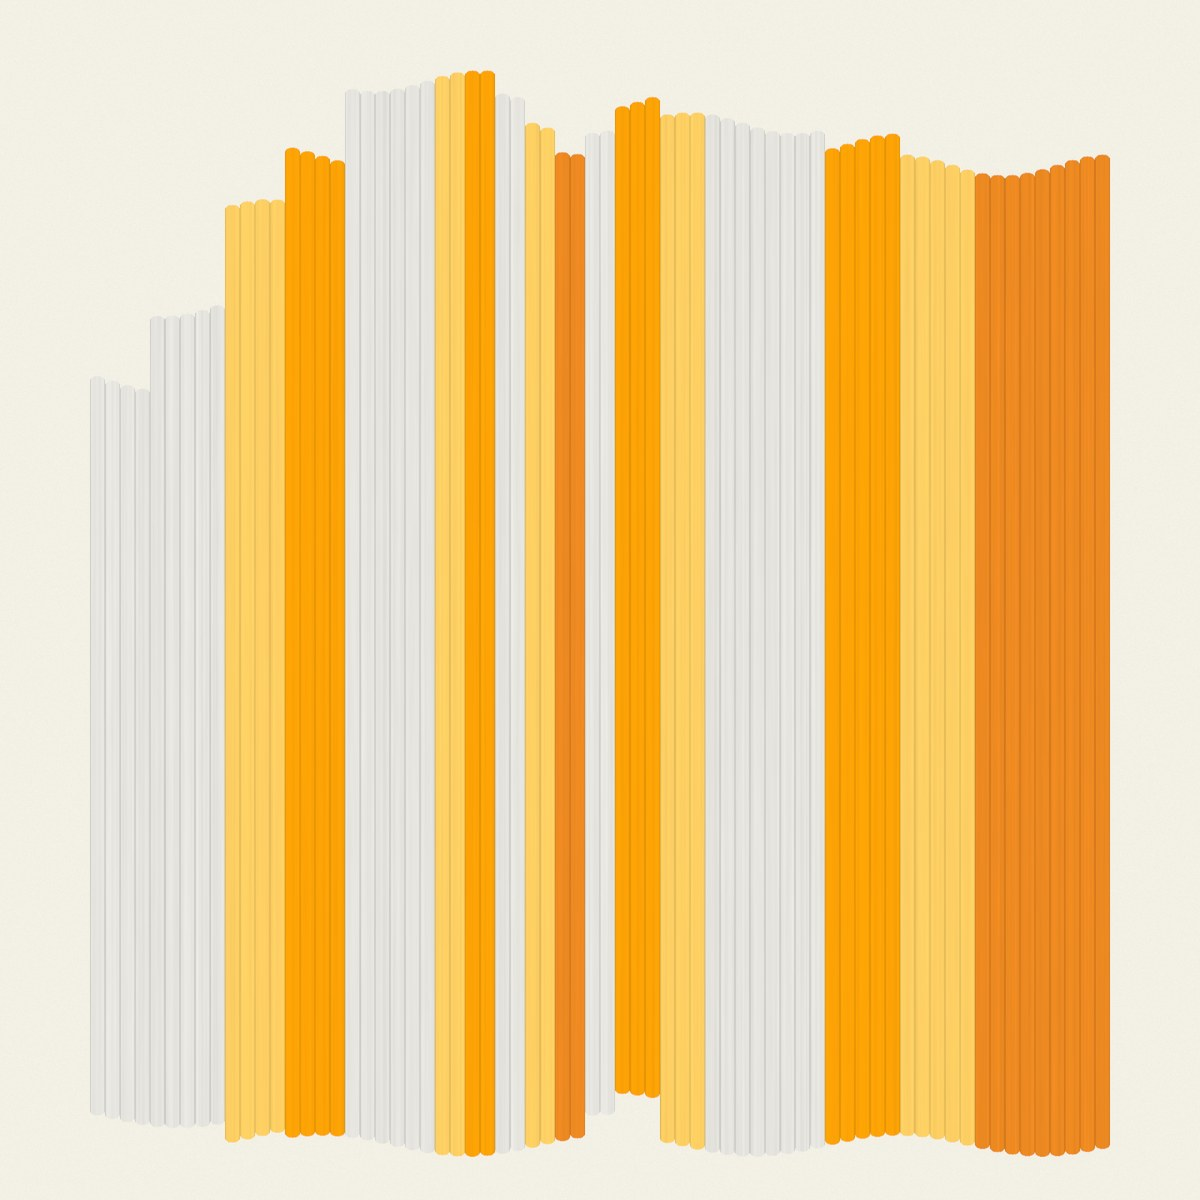
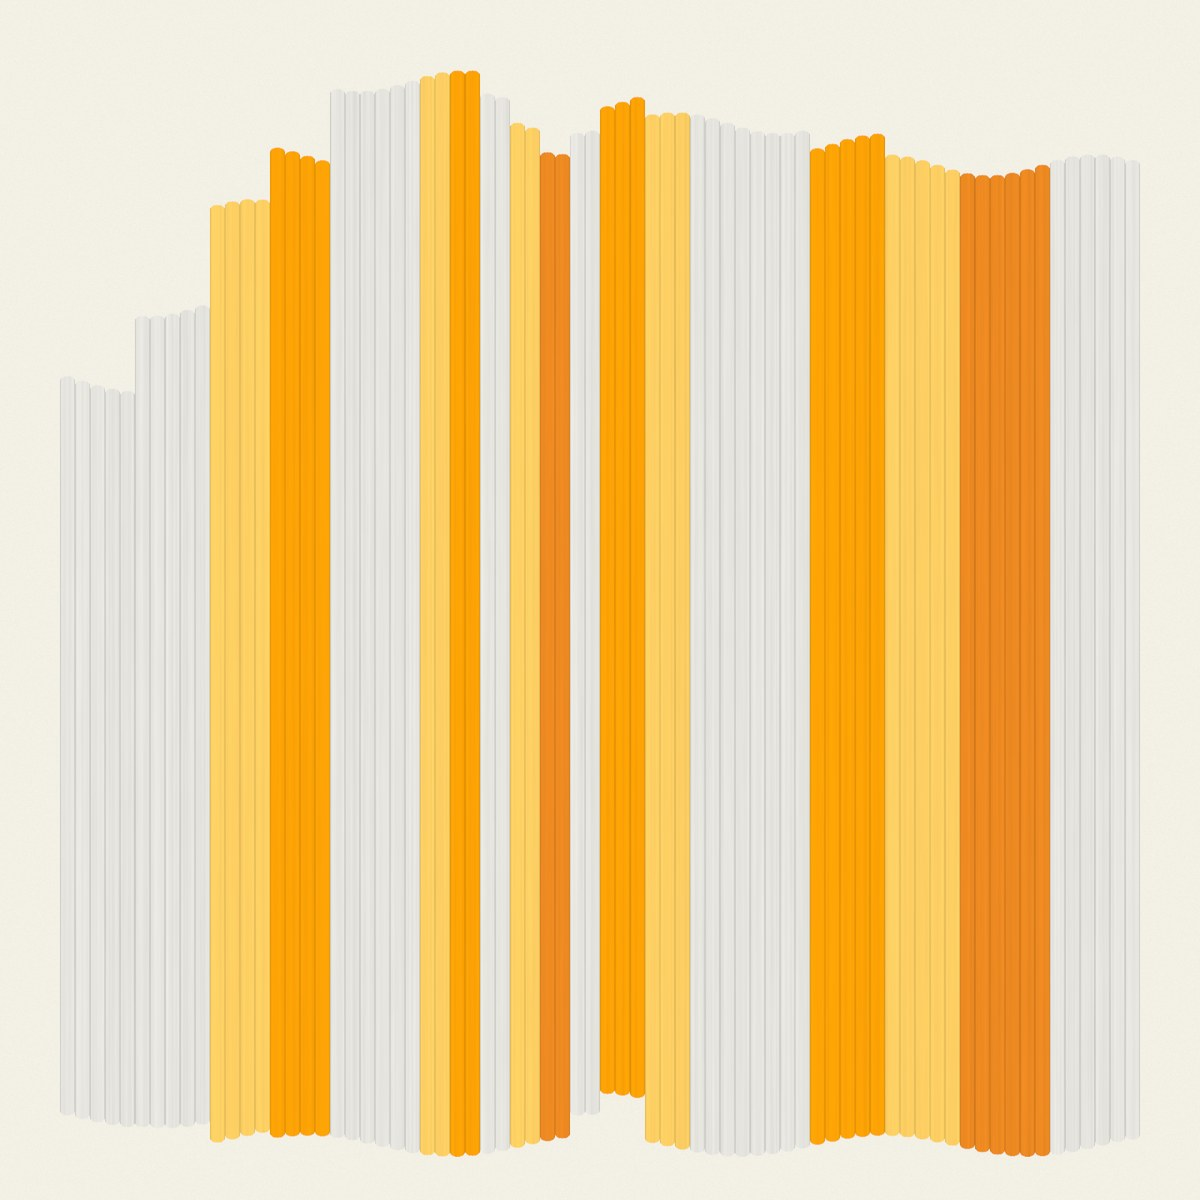
HOLO v.2: every slat of v.1's back on the warm and the blue; the tiers kept

Changed region(s): [[0.3392, 0.0617, 0.5858, 0.9867], [0.6475, 0.0925, 0.9558, 0.9867], [0.1542, 0.1233, 0.3083, 0.9558]]

diff --git a/HOLO-Claude/generator/holo_v2.py b/HOLO-Claude/generator/holo_v2.py
@@ -17,6 +17,16 @@ they are even … keep the dance in the second layer"; README): run 2's bands ar
 laid on every leg between its own ends, the stroke's end never past it, a dab by its length there — holoplan.js's bandOn and dabsOn, the same
 numbers. The 60 × 60s 520 mm across (v.1 560 and 540), so that MARKS fit on the canvas by the field (README's canon).
 
+Every slat of v.1's, none lost (the owner, 2026-11-14, `../Screenshot 2026-11-14 at 7.27.03 PM.png`, the 40 × 40's last slat gone in v.2: "did
+you leave out the last column on purpose? … I would bring the lost column back. But these are your pictures — you decide"). The first v.2s
+were drawn on a study with a wider margin all round, so its row of slats was cut shorter: the 40 × 40 lost its outermost slat on the right
+(Jar 1, 6 legs; Jar 6 9 legs wide for 6), the blue its two outermost, the tiers its last two in one and its colours in another order. Now a v.2
+is its v.1's own row: the 40 × 40 360 mm across as v.1; the blue pressed to 520 mm by one leg off each of its widest slats, every slat kept.
+The ragged edges as the owner saw them that day: the first v.2's rhythm (the old row, seeded as before) carried slat for slat onto v.1's row;
+a slat it never had, one more step of the walk past its neighbour and its staircase a step deeper.
+The tiers' v.2 stays as it was, its own row (`own`): the owner, the same evening, as the work was under way: "I really like the tiers v.2 —
+I say it as a professional who has seen a great deal, it came out very well. I cannot wait to paint it"
+
 python holo_v2.py [id …]     (a venv with numpy, pillow and scipy; the working directory this one; ids the v.1 ones: holo-40-warm …)
 """
 import sys, json, os, importlib.util
@@ -31,21 +41,23 @@ H = J.H
 OUT = J.OUT
 PPM = H.PPM
 
-# every picture's v.2: its v.1's study with a wider margin (room for the ends to stand out), and how ragged; mm, est.
-#   margin: the base of the ends; out: as far as an end stands out past it; step: a block's step; deep: the walk's deepest in;
-#   wave: (amplitude, wavelength); stair: (slats a side, mm a step) for the sides
+# every picture's v.2: v.1's own row of slats (holo_study's PICTURES), `legs` across if fewer than v.1's; and how ragged, mm, est.:
+#   make, margin: the first v.2's study, its rhythm drawn on its row (carried onto v.1's, `carry`; `own`: that row itself, the tiers' as
+#   the owner liked it); margin: the base of the ends;
+#   out: as far as an end stands out past it; step: a block's step; deep: the walk's deepest in; wave: (amplitude, wavelength);
+#   stair: (slats a side, mm a step) for the sides
 V2 = {
     'holo-40-warm': dict(make=lambda m: H.Study(400, 'warm', margin=m), margin=30, out=12, step=7, deep=34, wave=(3.5, 70), stair=(3, 26), seed=11),
     'holo-60-blue': dict(make=lambda m: H.Study(600, 'blue', margin=m, slope=0.36, xf=0.58, yf=0.44, acc=((4, 8), (3, 7))), margin=40, out=14, step=9,
-                         deep=46, wave=(4.5, 95), stair=(3, 34), seed=5),
-    'holo-60-tiers': dict(make=lambda m: H.Tiers(600, margin=m), margin=40, out=14, step=9, deep=46, wave=(4.5, 95), stair=(3, 34), seed=8),
+                         deep=46, wave=(4.5, 95), stair=(3, 34), seed=5, legs=104),
+    'holo-60-tiers': dict(make=lambda m: H.Tiers(600, margin=m), margin=40, out=14, step=9, deep=46, wave=(4.5, 95), stair=(3, 34), seed=8, own=True),
 }
 SUB = {'holo-40-warm': 'the fan, warm', 'holo-60-blue': 'the fan, blue', 'holo-60-tiers': 'the tiers'}
 
 
-def ragged(st, c):
-    """every leg its ends (study's mm, y down): [top, bottom]"""
-    rng = np.random.default_rng(c['seed']); n = len(st.slats); m, out, step, deep = c['margin'], c['out'], c['step'], c['deep']
+def rhythm(st, c):
+    """the ragged ends' rhythm on a row of slats: every slat its walk in from the top and from the bottom and its staircases, mm; the wave's phase"""
+    rng = np.random.default_rng(c['seed']); n = len(st.slats); out, step, deep = c['out'], c['step'], c['deep']
 
     def walk():
         v, vs = rng.uniform(-out * 0.3, deep * 0.3), []
@@ -64,20 +76,63 @@ def ragged(st, c):
         for q in range(k):                                              # the outermost slat the deepest
             a[q if side == 0 else n - 1 - q] += (k - q) * s
 
-    amp, lam = c['wave']
     tops, bots, phase = walk(), walk(), rng.uniform(0, 2 * np.pi, 2)
+    return dict(top=list(tops), bot=list(bots), st_top=list(st_top), st_bot=list(st_bot), phase=phase)
+
+
+def carry(old, st, R, c):
+    """the old row's rhythm onto st's row: slat for slat in order, where their middles lie nearest; the wave at the old slat's own place, so a
+    slat's legs end where they did; a slat the old row never had, outward from the last that had: one more step of the walk (its own seed) and
+    its staircase one step deeper, if its neighbour stood on one → (rhythm a slat of st, the wave's x at every slat's left edge)"""
+    edge = lambda S, sl: S.x0 + sl['i0'] * S.pitch
+    mid = lambda S, sl: edge(S, sl) + sl['w'] * S.pitch / 2
+    no, nn = len(old.slats), len(st.slats)
+    pairs = lambda o: [(i, i - o) for i in range(nn) if 0 <= i - o < no]
+    o = min(range(-3, 4), key=lambda o: np.mean([abs(mid(st, st.slats[i]) - mid(old, old.slats[j])) for i, j in pairs(o)]))
+    P = dict(pairs(o)); lo, hi = min(P), max(P)
+    T = {k: [None] * nn for k in ('top', 'bot', 'st_top', 'st_bot')}; xs = [None] * nn
+    for i, j in P.items():
+        for k in T: T[k][i] = R[k][j]
+        xs[i] = edge(old, old.slats[j])
+    rng = np.random.default_rng(c['seed'] + 1000)
+    for i, a, b in [(i, i - 1, i - 2) for i in range(hi + 1, nn)] + [(i, i + 1, i + 2) for i in range(lo - 1, -1, -1)]:
+        for k in ('top', 'bot'):
+            T[k][i] = float(np.clip(T[k][a] + c['step'] * rng.choice([-1, 0, 0, 1]), -c['out'], c['deep']))
+        for k in ('st_top', 'st_bot'):
+            u, v = T[k][a], T[k][b] if 0 <= b < nn and T[k][b] is not None else 0.0
+            T[k][i] = u + (u - v) if u > v else 0.0
+        xs[i] = edge(st, st.slats[i]) + xs[a] - edge(st, st.slats[a])
+    return dict(T, phase=R['phase']), xs
+
+
+def ragged(st, c, R=None, xs=None):
+    """every leg its ends (study's mm, y down): [top, bottom], by a rhythm a slat (its own row's, or carried) and the wave at xs, a slat's left edge"""
+    R = R or rhythm(st, c); m = c['margin']; amp, lam = c['wave']; phase = R['phase']
     for si, sl in enumerate(st.slats):
-        ends = []
+        x0 = xs[si] if xs else st.x0 + sl['i0'] * st.pitch; ends = []
         for j in range(sl['w']):
-            x = st.x0 + (sl['i0'] + j + 0.5) * st.pitch
-            t = m + tops[si] + st_top[si] + amp * np.sin(2 * np.pi * x / lam + phase[0])
-            b = st.H - m - bots[si] - st_bot[si] - amp * np.sin(2 * np.pi * x / (lam * 1.37) + phase[1])
+            x = x0 + (j + 0.5) * st.pitch
+            t = m + R['top'][si] + R['st_top'][si] + amp * np.sin(2 * np.pi * x / lam + phase[0])
+            b = st.H - m - R['bot'][si] - R['st_bot'][si] - amp * np.sin(2 * np.pi * x / (lam * 1.37) + phase[1])
             if b - t < 0.4 * (st.H - 2 * m):                            # never a stub: at least 0.4 of the base's height
                 mid = (t + b) / 2; t, b = mid - 0.2 * (st.H - 2 * m), mid + 0.2 * (st.H - 2 * m)
             ends.append((round(float(t), 1), round(float(b), 1)))
         sl['ends'] = ends
     for leg in st.legs:
         sl = leg['slat']; leg['ends'] = sl['ends'][leg['n'] - sl['i0']]
+
+
+def narrow(st, legs):
+    """v.1's row pressed to `legs` legs across: one leg off each of its widest slats, of two alike the nearer the horizon, so the fan still
+    widens outward; every slat kept, its bands and its jars as v.1's; the horizon between the same two slats"""
+    cut_ = sorted(range(len(st.slats)), key=lambda i: (-st.slats[i]['w'], abs(st.slats[i]['cx'] - st.xc)))[:st.N - legs]
+    nl = round((st.xc - st.x0) / st.pitch) - sum(1 for i in cut_ if st.slats[i]['cx'] < st.xc)
+    for i in cut_: st.slats[i]['w'] -= 1
+    st.N = legs; st.x0 = (st.W - legs * st.pitch) / 2; st.xc = st.x0 + nl * st.pitch; st.legs, i = [], 0
+    for sl in st.slats:
+        sl['i0'] = i; sl['cx'] = st.x0 + (i + sl['w'] / 2) * st.pitch
+        for j in range(sl['w']): st.legs.append(dict(x=st.x0 + (i + j + 0.5) * st.pitch, slat=sl, n=i + j))
+        i += sl['w']
 
 
 def cut(st):
@@ -190,8 +245,14 @@ def plan(st, pid, title):
 
 def make(pid, out=OUT, renders=True):
     c = V2[pid]; byhex = J.recolour(pid)
-    st = c['make'](c['margin'])
-    ragged(st, c); cut(st)
+    old = c['make'](c['margin'])                                        # the first v.2's row, for its rhythm
+    if c.get('own'):
+        st = old; ragged(st, c)
+    else:
+        st = H.PICTURES[pid][0]()                                       # v.1's own row
+        if c.get('legs'): narrow(st, c['legs'])
+        ragged(st, c, *carry(old, st, rhythm(old, c), c))
+    cut(st)
     vid = pid + '-v2'
     p = plan(st, vid, '')
     warp_dark(st, p)

diff --git a/CHANGELOG.md b/CHANGELOG.md
@@ -5,6 +5,14 @@ Machine measurements stay in RUBENS: `../Rubens/CALIBRATION.md`.
 
 ## After v.1.2.3 — 2026-11-10
 
+- **HOLO v.2: every slat of v.1's back; the tiers kept** (2026-11-14, the night; the owner, `HOLO-Claude/Screenshot 2026-11-14 at 7.27.03
+  PM.png`: "did you leave out the last column on purpose, as in v.1? … I would bring the lost column back. But these are your pictures — you
+  decide"; then: "I really like the tiers v.2 — I say it as a professional who has seen a great deal, it came out very well. I cannot wait to
+  paint it"). The first v.2s were drawn with a wider margin all round, so the study's row of slats was cut short: the warm 40 × 40 lost its
+  outermost slat (Jar 1, 6 legs, Jar 6 9 legs wide for 6), the blue its two outermost. Now both are v.1's own row (`holo_v2.py`: `narrow`,
+  `carry`): the 40 × 40 72 legs, 360 mm across as v.1; the blue 26 slats at 520 mm, one leg off each of its widest; their ragged edges the
+  first v.2's, slat for slat, a slat they never had one more step of the walk. Run 1 on the 40 × 40: Jar 1 312 dabs (was 246), 1132 dabs in
+  all, ≈ 3 h 20 min (est.). The tiers' v.2 not touched, byte for byte. Checked in headless Chrome, nothing sent.
 - **HOLO: ▶ Play ten times faster** (2026-11-14, the night; the owner: "for PLAY raise the speed ×10, it crawls like a turtle now"). The
   whole run in 18 s (was three minutes, FORM-G's), the clock still squared, slow at first (`PLAY_MS`, `holo.js`). A view: nothing sent.
 - **HOLO: TEST at the canvas's own corners; Preferences' margin may be 0** (2026-11-14, the evening; the owner: "why 32.5 mm? The cross

diff --git a/HOLO-Claude/generator/README.md b/HOLO-Claude/generator/README.md
@@ -32,6 +32,10 @@ to be laid evenly on the canvas … 'ragged' edges, with no clear frame, will he
 ends — blocks stepped slat to slat, a wave along them, a staircase in at one to three corners; run 2's shadows within what a slat's legs share;
 the 60 × 60s 520 mm across, so MARKS fit on the canvas by the field. Writes `app/holo/<id>-v2.json` and its two renders, v.1 untouched.
 
+Every slat of v.1's (2026-11-14, the night; the owner, of the 40 × 40's last slat gone: "I would bring the lost column back. But these are your
+pictures — you decide"): the warm 40 × 40 and the blue are v.1's own row, the blue pressed to 520 mm by one leg off its widest slats; their ragged
+edges the first v.2's, carried slat for slat. The tiers' v.2 is kept as it was, its own row and colours ("I really like the tiers v.2").
+
 ```
 python holo_v2.py                    # all three v.2s
 python holo_v2.py holo-60-blue       # one; --out=<dir> elsewhere
